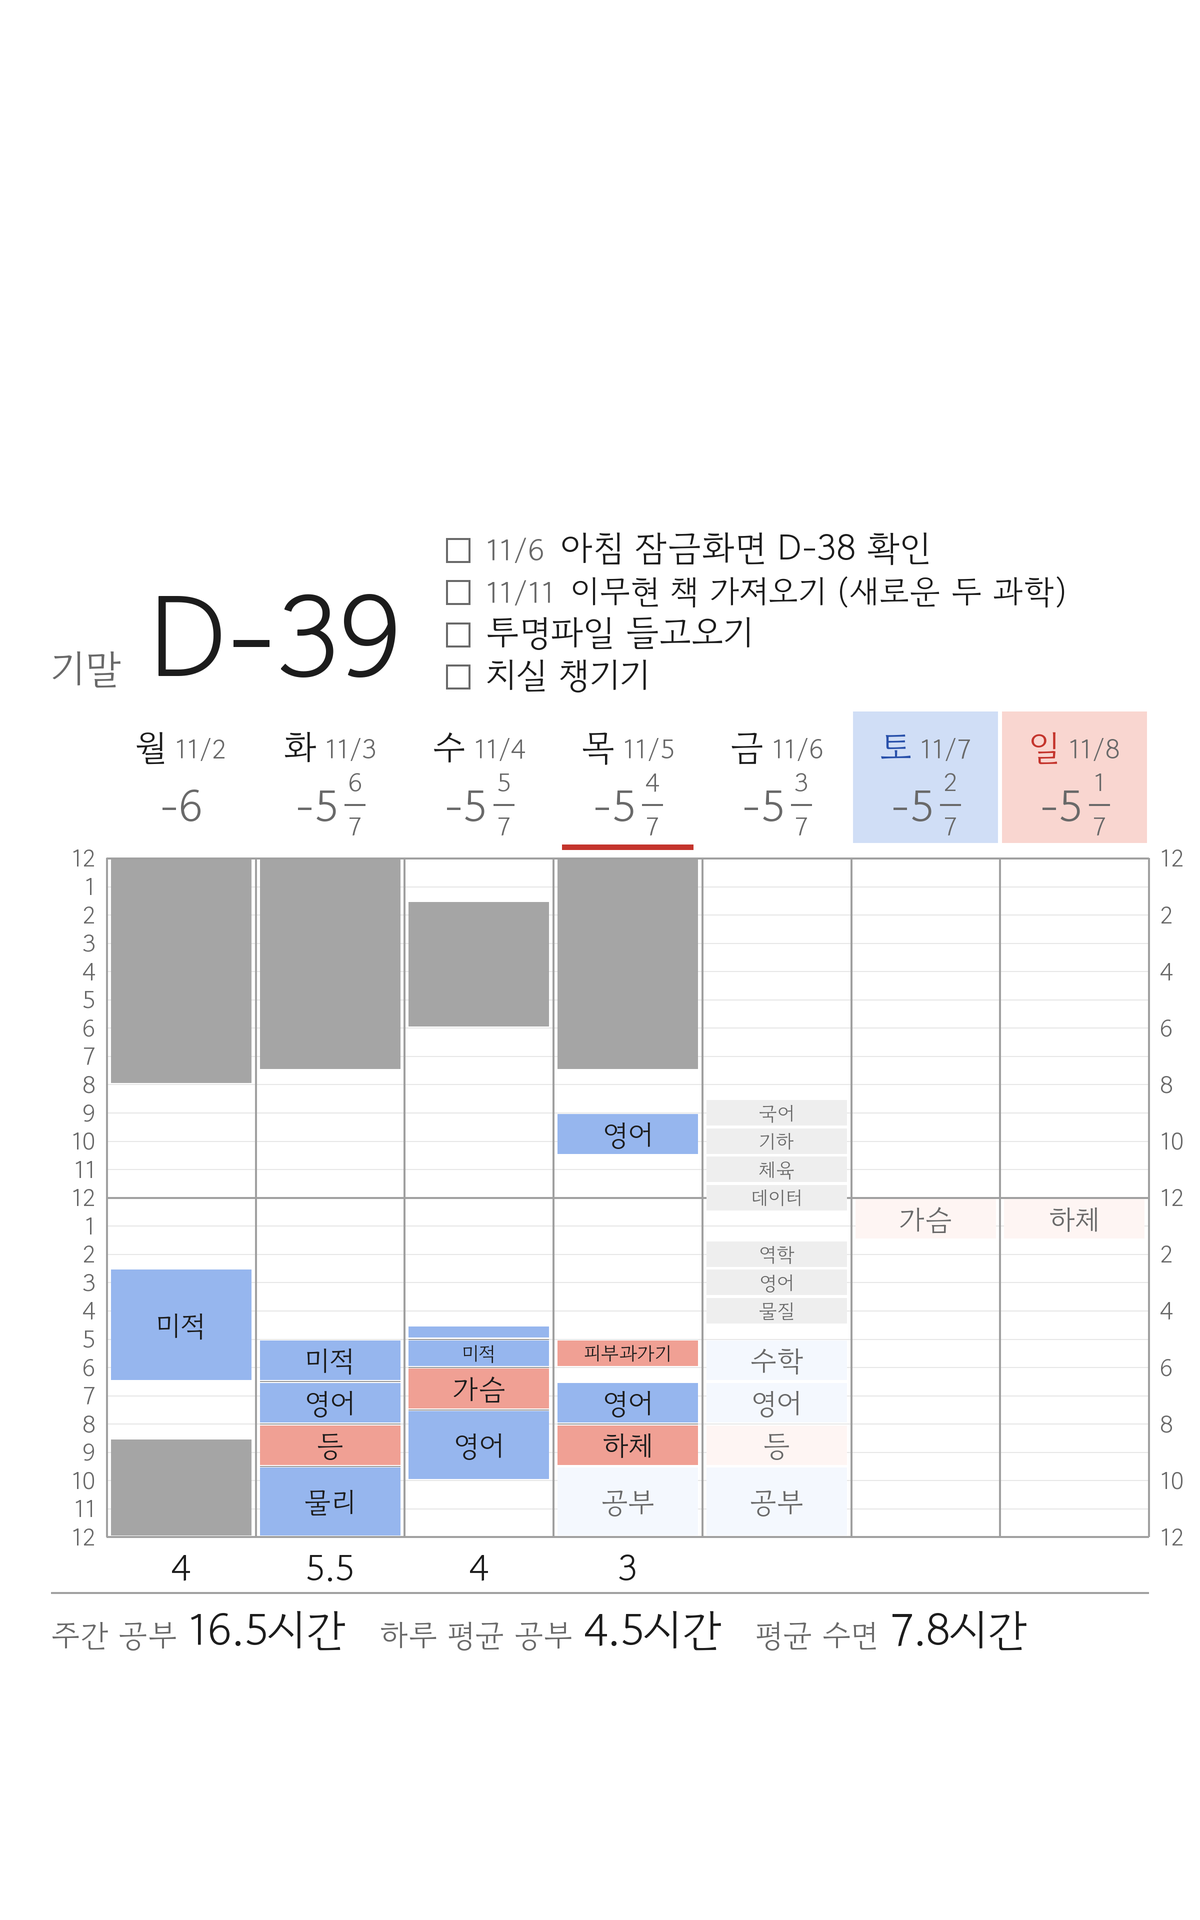
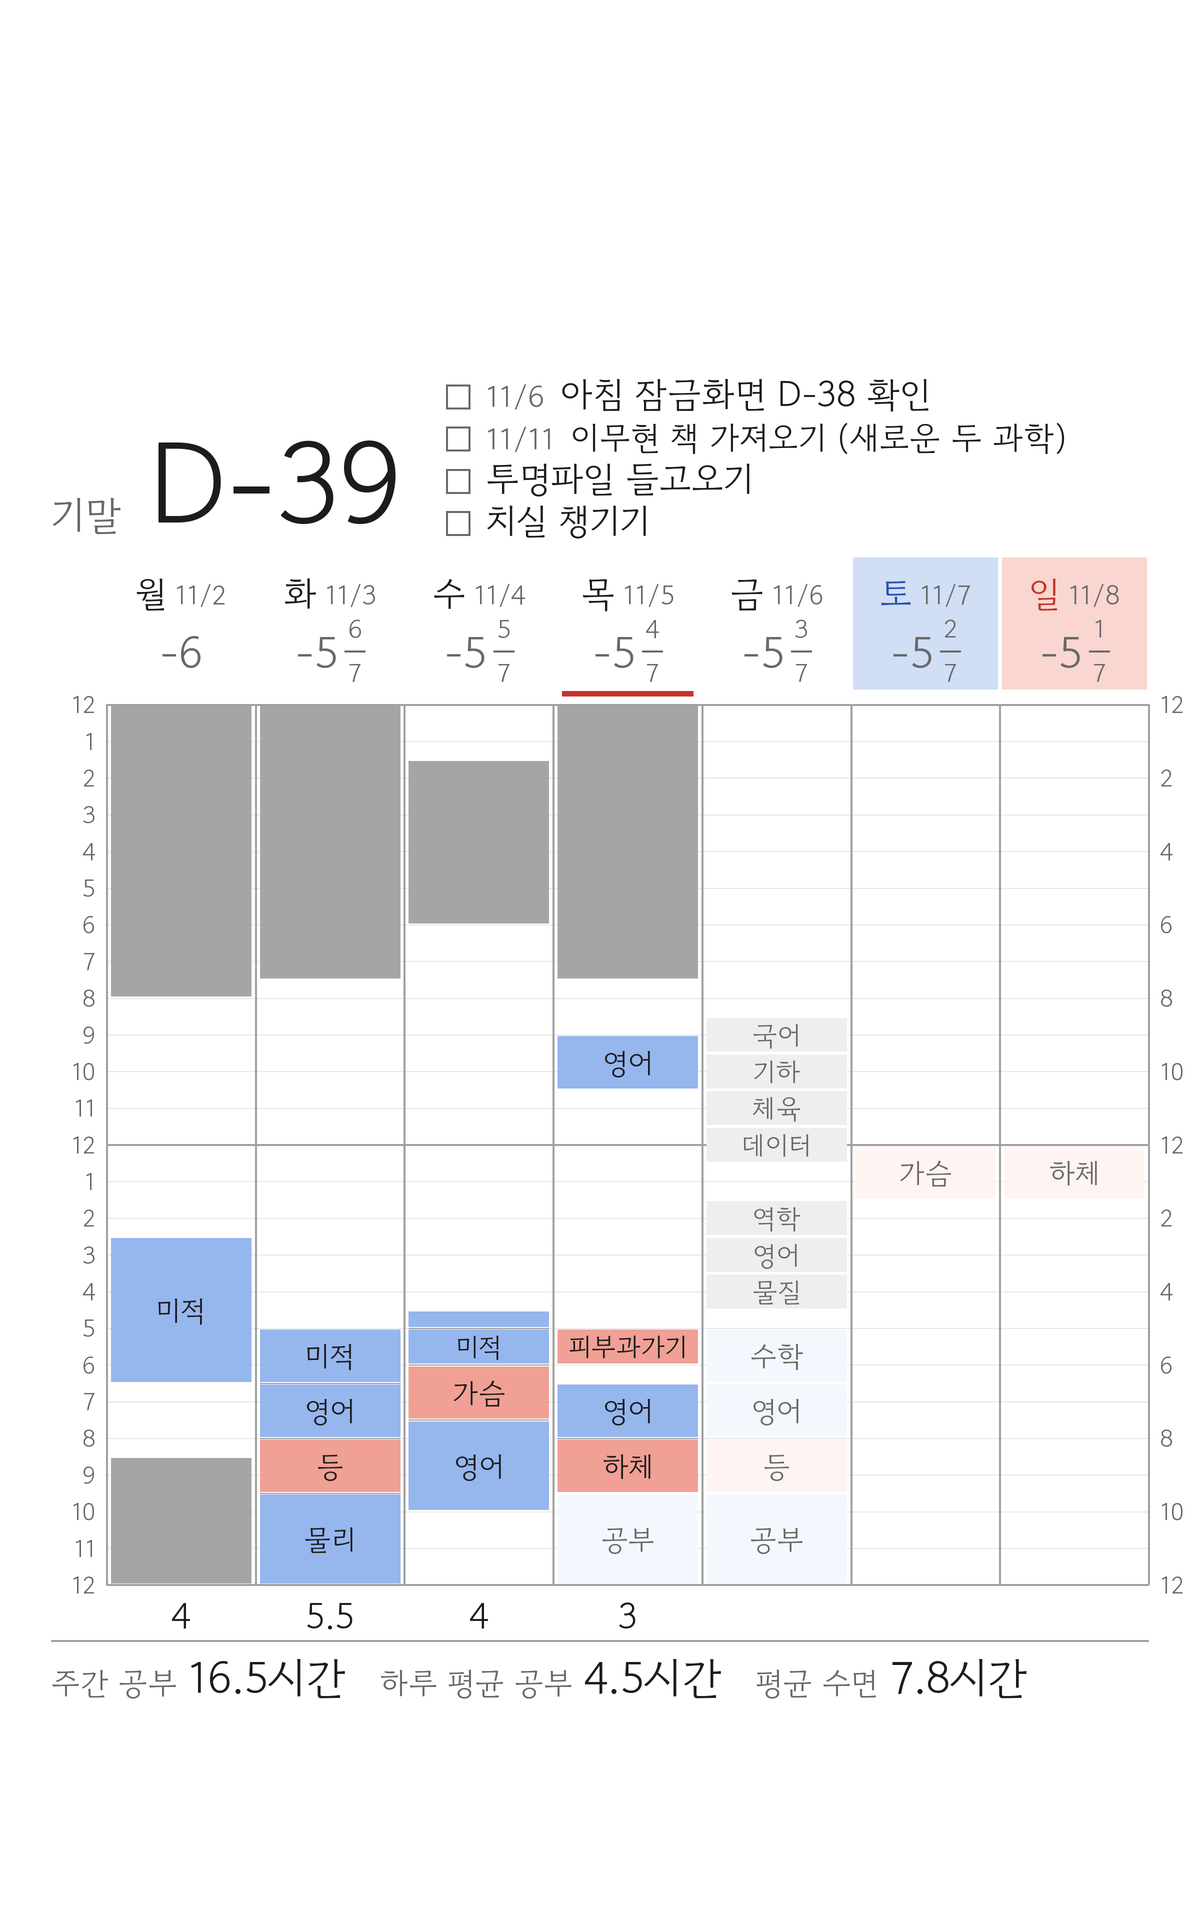
태블릿 잠금화면도 위아래 여백을 줄여 세로로 늘림
Claude-Session: https://claude.ai/code/session_016sgH3TiDNtMfBDqEdhxfRP

diff --git a/make.py b/make.py
@@ -304,4 +304,5 @@ if __name__ == "__main__":
     today = datetime.datetime.now(KST).date()
     draw(data, today, 1080, 2340, os.path.join(base, f"phone{sfx}.png"), todo_scale=1.2,
          top_empty=0.28, bottom_empty=0.10)  # 폰만 위아래 여백을 줄여 세로로 늘림
-    draw(data, today, 1200, 1920, os.path.join(base, f"tablet{sfx}.png"))
+    draw(data, today, 1200, 1920, os.path.join(base, f"tablet{sfx}.png"),
+         top_empty=0.22, bottom_empty=0.09)  # 태블릿도 위아래 여백을 줄여 세로로 늘림
